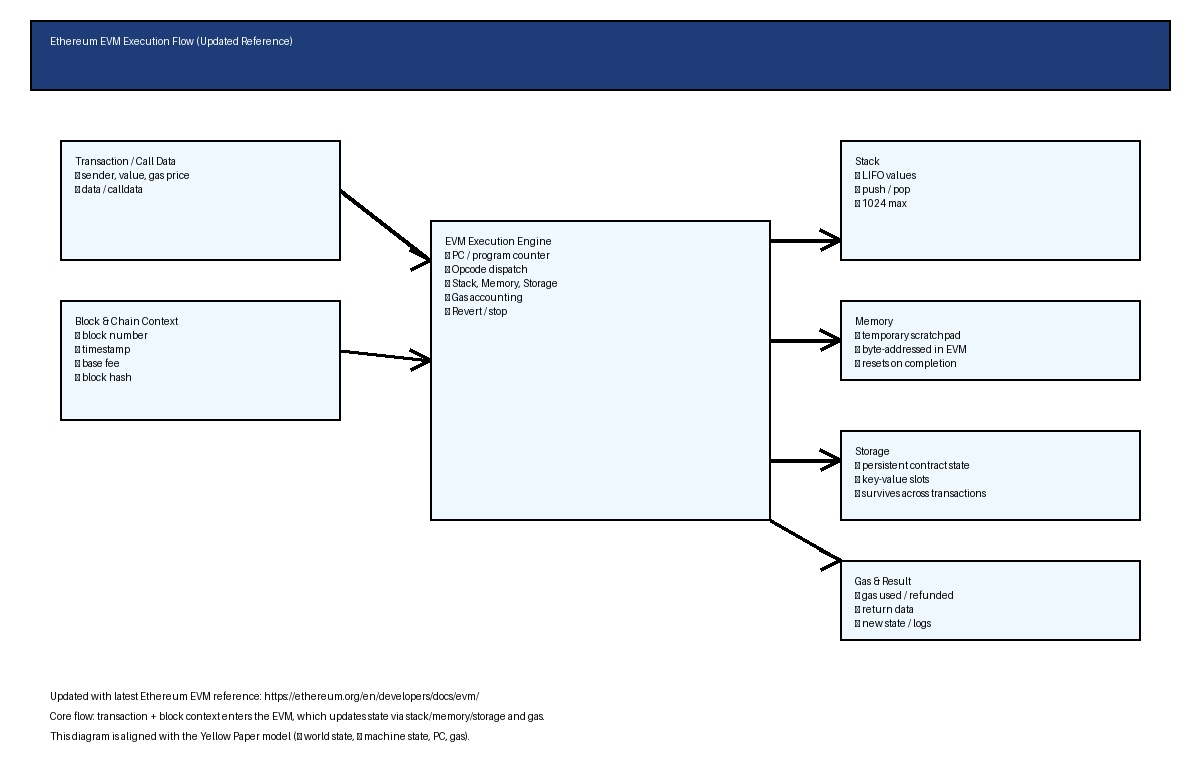
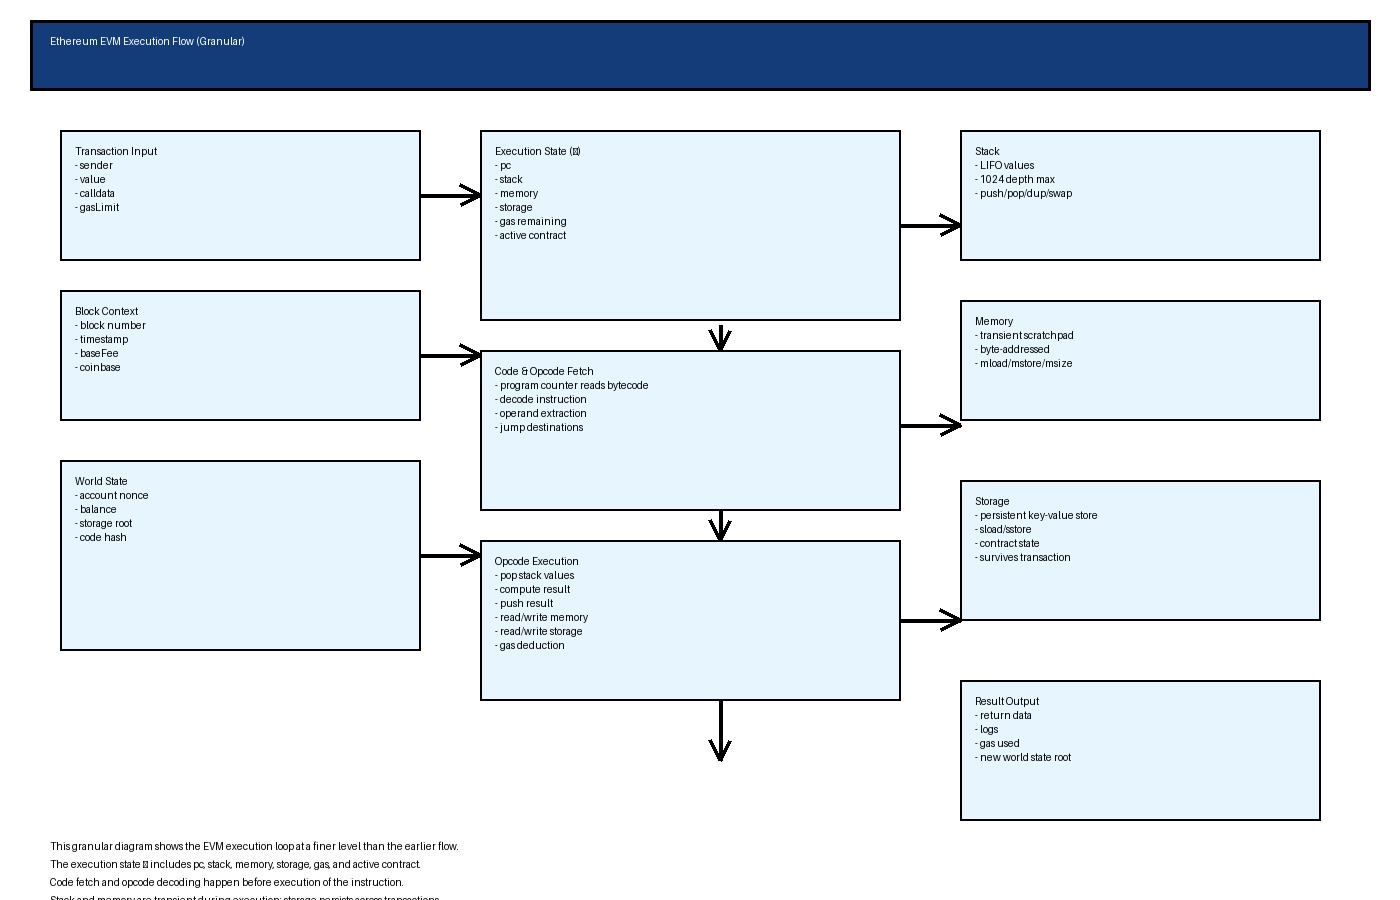
Replace EVM flow diagram with a more granular execution flow and update docs

diff --git a/README.md b/README.md
@@ -15,11 +15,11 @@ EVM Model
 
 ## Ethereum EVM Execution Flow
 
-A high-level view of how the EVM processes transaction input and block context, manages stack/memory/storage, consumes gas, and updates the world state.
+A more granular view of how the EVM processes transaction input and block context, decodes opcodes, updates execution state, and produces return data with a new world state root.
 
 ![Ethereum EVM Execution Flow](diagram_evm_flow.jpg)
 
-The diagram reflects the latest Ethereum EVM reference and the Yellow Paper model for machine state and world state.
+The diagram reflects the latest Ethereum EVM reference and the Yellow Paper model for machine state (μ), world state (σ), stack, memory, storage, gas, and opcode execution.
 
 ## Core Components
 

diff --git a/GETTING_STARTED.md b/GETTING_STARTED.md
@@ -93,7 +93,7 @@ def executeInstruction (...) : Option (...) := do
 
 ### Ethereum EVM Execution Flow
 
-This diagram shows how a transaction and block context enter the EVM, how execution uses stack, memory, storage, and gas, and how the machine produces a new state.
+This more granular diagram shows how a transaction and block context enter the EVM, how code is fetched and decoded, how the execution state is updated, and how final return data and state changes are produced.
 
 ![Ethereum EVM Execution Flow](diagram_evm_flow.jpg)
 